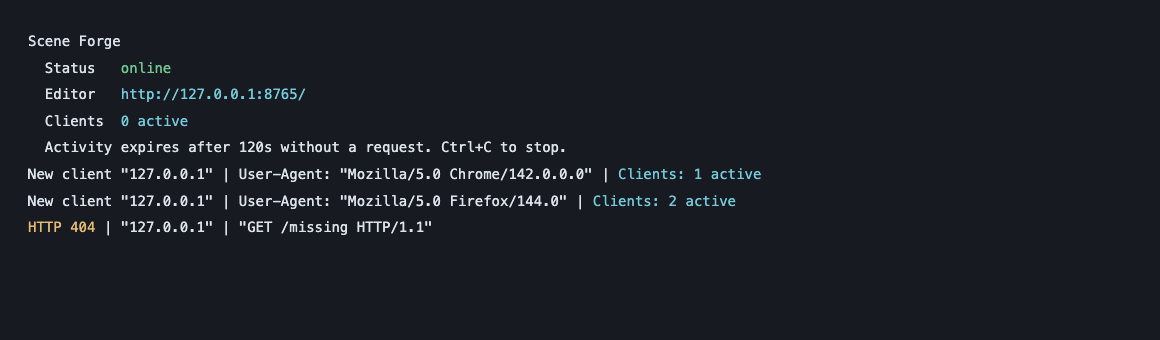
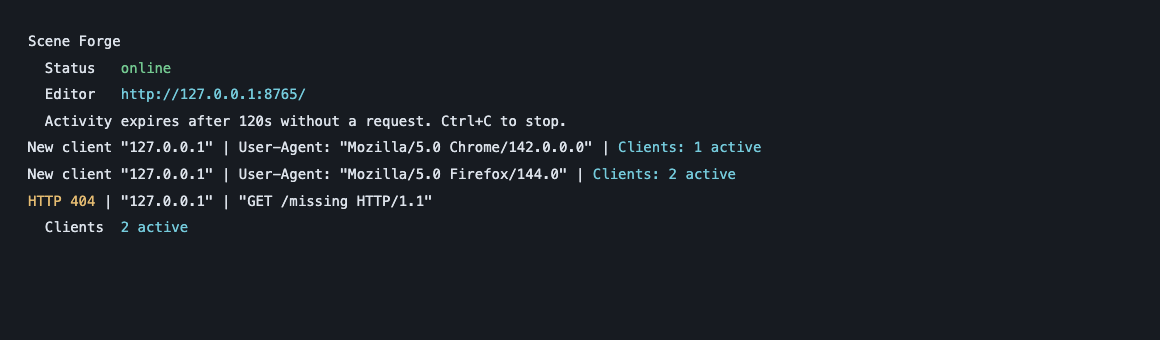
Keep the console client total live below activity logs

diff --git a/src/gbc_scene_forge/console.py b/src/gbc_scene_forge/console.py
@@ -1,4 +1,4 @@
-"""Thread-safe, append-only server status and recent HTTP client activity."""
+"""Thread-safe server status, live client total and recent HTTP client activity."""
 
 import json
 import os
@@ -16,30 +16,49 @@ class ServerConsole:
         self.timeout = timeout
         self.clients = {}
         self.lock = Lock()
-        self.color = (
-            self.stream.isatty()
-            and os.environ.get("TERM") != "dumb"
-            and "NO_COLOR" not in os.environ
-        )
+        self.interactive = self.stream.isatty() and os.environ.get("TERM") != "dumb"
+        self.color = self.interactive and "NO_COLOR" not in os.environ
+        self.live_total = False
 
     def highlight(self, text, code):
         return f"\033[{code}m{text}\033[0m" if self.color else text
 
     def write(self, text):
+        if self.live_total:
+            # The total occupies the current line. Insert ledger entries above it,
+            # then replace it with the current count; never leave a stale total behind.
+            self.stream.write("\r\033[2K")
         print(text, file=self.stream, flush=True)
+        if self.live_total:
+            self._total()
+
+    def _total(self):
+        print(
+            "  Clients  " + self.highlight(f"{len(self.clients)} active", "36"),
+            end="",
+            file=self.stream,
+            flush=True,
+        )
 
     def start(self, port):
         with self.lock:
             self.write("Scene Forge")
             self.write("  Status   " + self.highlight("online", "32"))
             self.write("  Editor   " + self.highlight(f"http://127.0.0.1:{port}/", "36"))
-            self.write("  Clients  " + self.highlight("0 active", "36"))
             self.write(
                 f"  Activity expires after {self.timeout}s without a request. Ctrl+C to stop."
             )
+            self.live_total = self.interactive
+            if self.live_total:
+                self._total()
+            else:
+                self.write("  Clients  " + self.highlight("0 active", "36"))
 
     def stop(self):
         with self.lock:
+            if self.live_total:
+                print(file=self.stream, flush=True)
+                self.live_total = False
             self.write("Status   " + self.highlight("stopped", "33"))
 
     def expire(self):

diff --git a/tests/test_console.py b/tests/test_console.py
@@ -31,7 +31,40 @@ class ConsoleTests(unittest.TestCase):
                 output = stream.getvalue()
                 for text in ("online", "http://127.0.0.1:8765/", "0 active", "stopped", "HTTP 404"):
                     self.assertIn(text, output)
-                self.assertEqual("\033[" in output, colored)
+                self.assertEqual("\033[32m" in output, colored)
+                self.assertEqual("\033[2K" in output, tty and env.get("TERM") != "dumb")
+
+    def test_live_total_is_replaced_after_arrivals_errors_and_expiration(self):
+        for env in ({}, {"NO_COLOR": ""}):
+            with self.subTest(env=env), patch.dict("os.environ", env, clear=True):
+                now = [0]
+                stream = io.StringIO()
+                stream.isatty = lambda: True
+                console = ServerConsole(stream, clock=lambda: now[0])
+                console.start(8765)
+
+                def current_total():
+                    # An erase-line removes the previous footer before an event is
+                    # printed. The last line is the only live Clients field.
+                    return stream.getvalue().rsplit("\r\033[2K", 1)[-1].split("\n")[-1]
+
+                self.assertIn("0 active", current_total())
+                console.request("127.0.0.1", "Browser A", "GET / HTTP/1.1", 200)
+                self.assertIn("1 active", current_total())
+                console.request("127.0.0.1", "Browser A", "GET / HTTP/1.1", 200)
+                self.assertIn("1 active", current_total())
+                console.request("127.0.0.1", "Browser B", "GET / HTTP/1.1", 404)
+                self.assertIn("2 active", current_total())
+                console.error("Protocol error")
+                self.assertIn("2 active", current_total())
+                now[0] = 120
+                console.expire()
+                self.assertIn("0 active", current_total())
+                console.stop()
+                self.assertTrue(
+                    stream.getvalue().endswith("stopped\n")
+                    or stream.getvalue().endswith("stopped\033[0m\n")
+                )
 
     def test_identity_refresh_expiration_and_return(self):
         now = [0]

diff --git a/README.md b/README.md
@@ -23,7 +23,9 @@ Open **http://127.0.0.1:8765/** in your browser. The terminal prints the address
 you can stop the server with **Ctrl+C**. The installed editor needs no Node or
 additional Python runtime dependencies.
 
-The console shows server status, the editor URL and active client totals. A client
+The console shows server status, the editor URL and active client totals. In an
+interactive terminal, a live Clients field stays below the event log and updates
+as clients arrive or expire. A client
 is one IP address + User-Agent combination, so multiple tabs in the same browser
 count once; different browsers at the same address count separately. Each HTTP
 request refreshes that client's activity. After **120 seconds without a request**,
